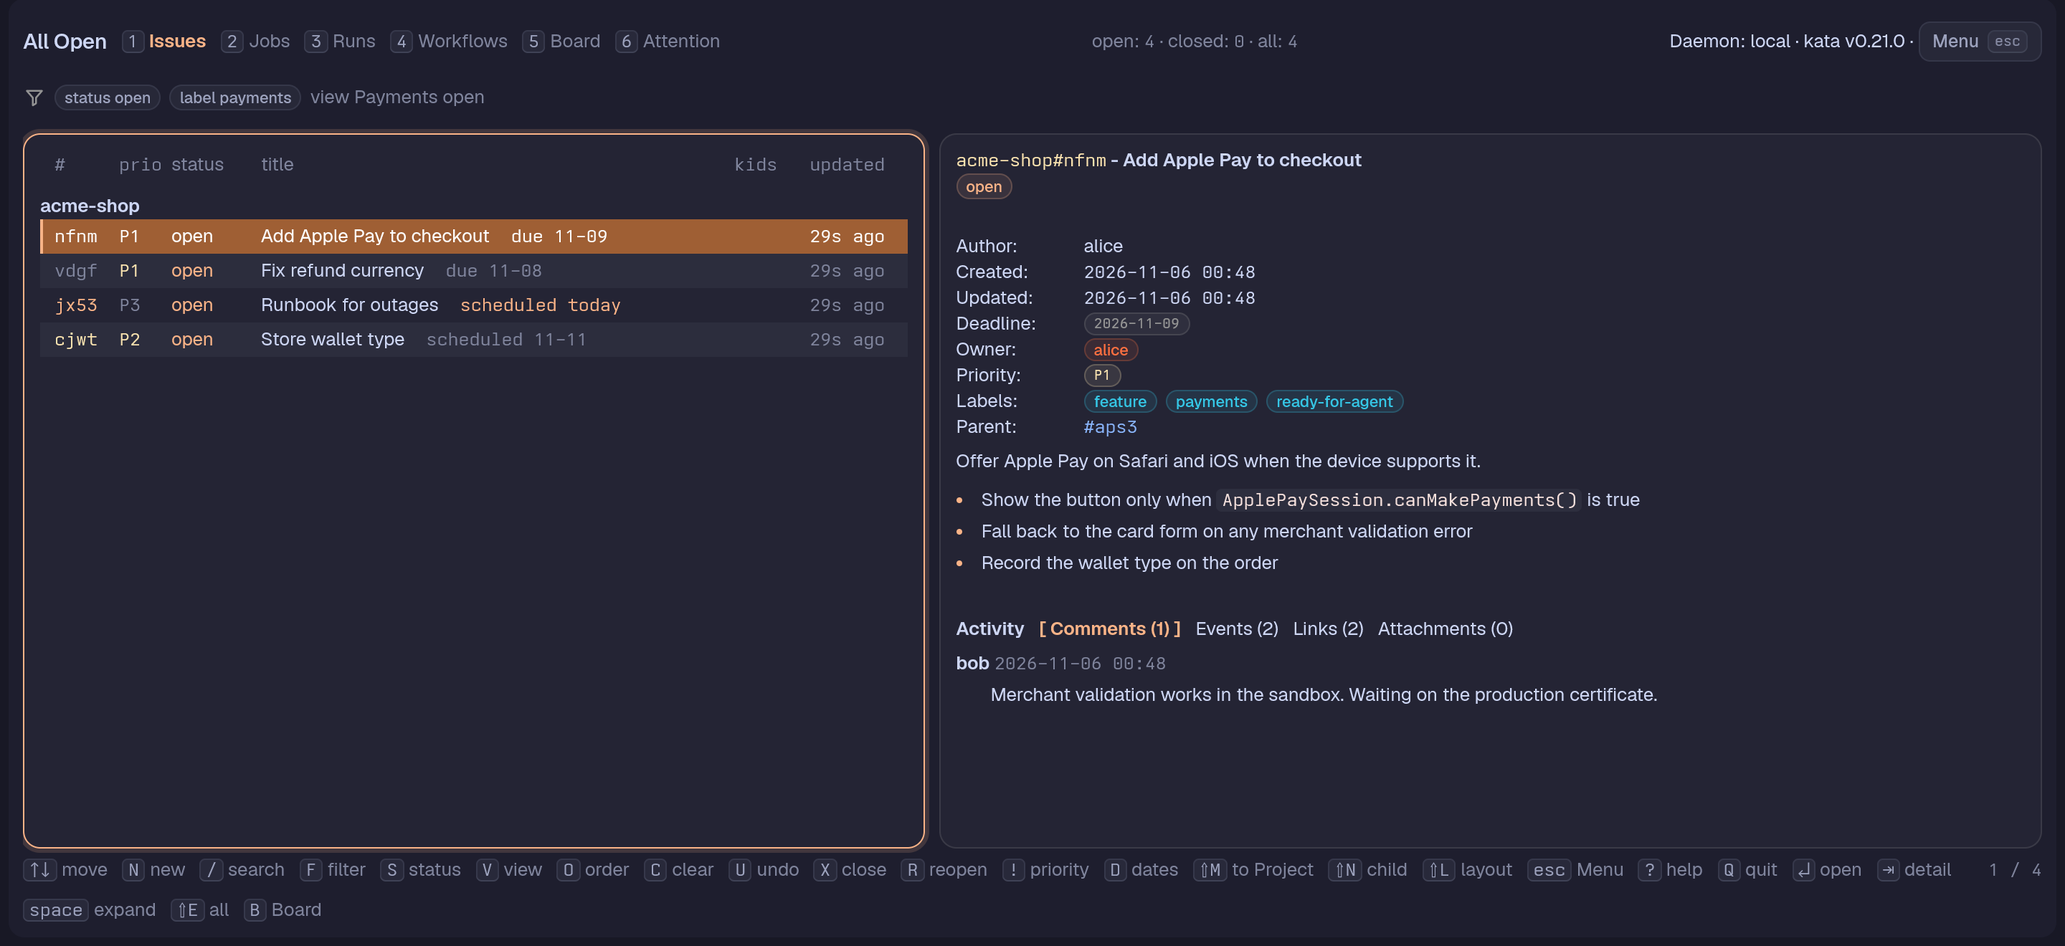
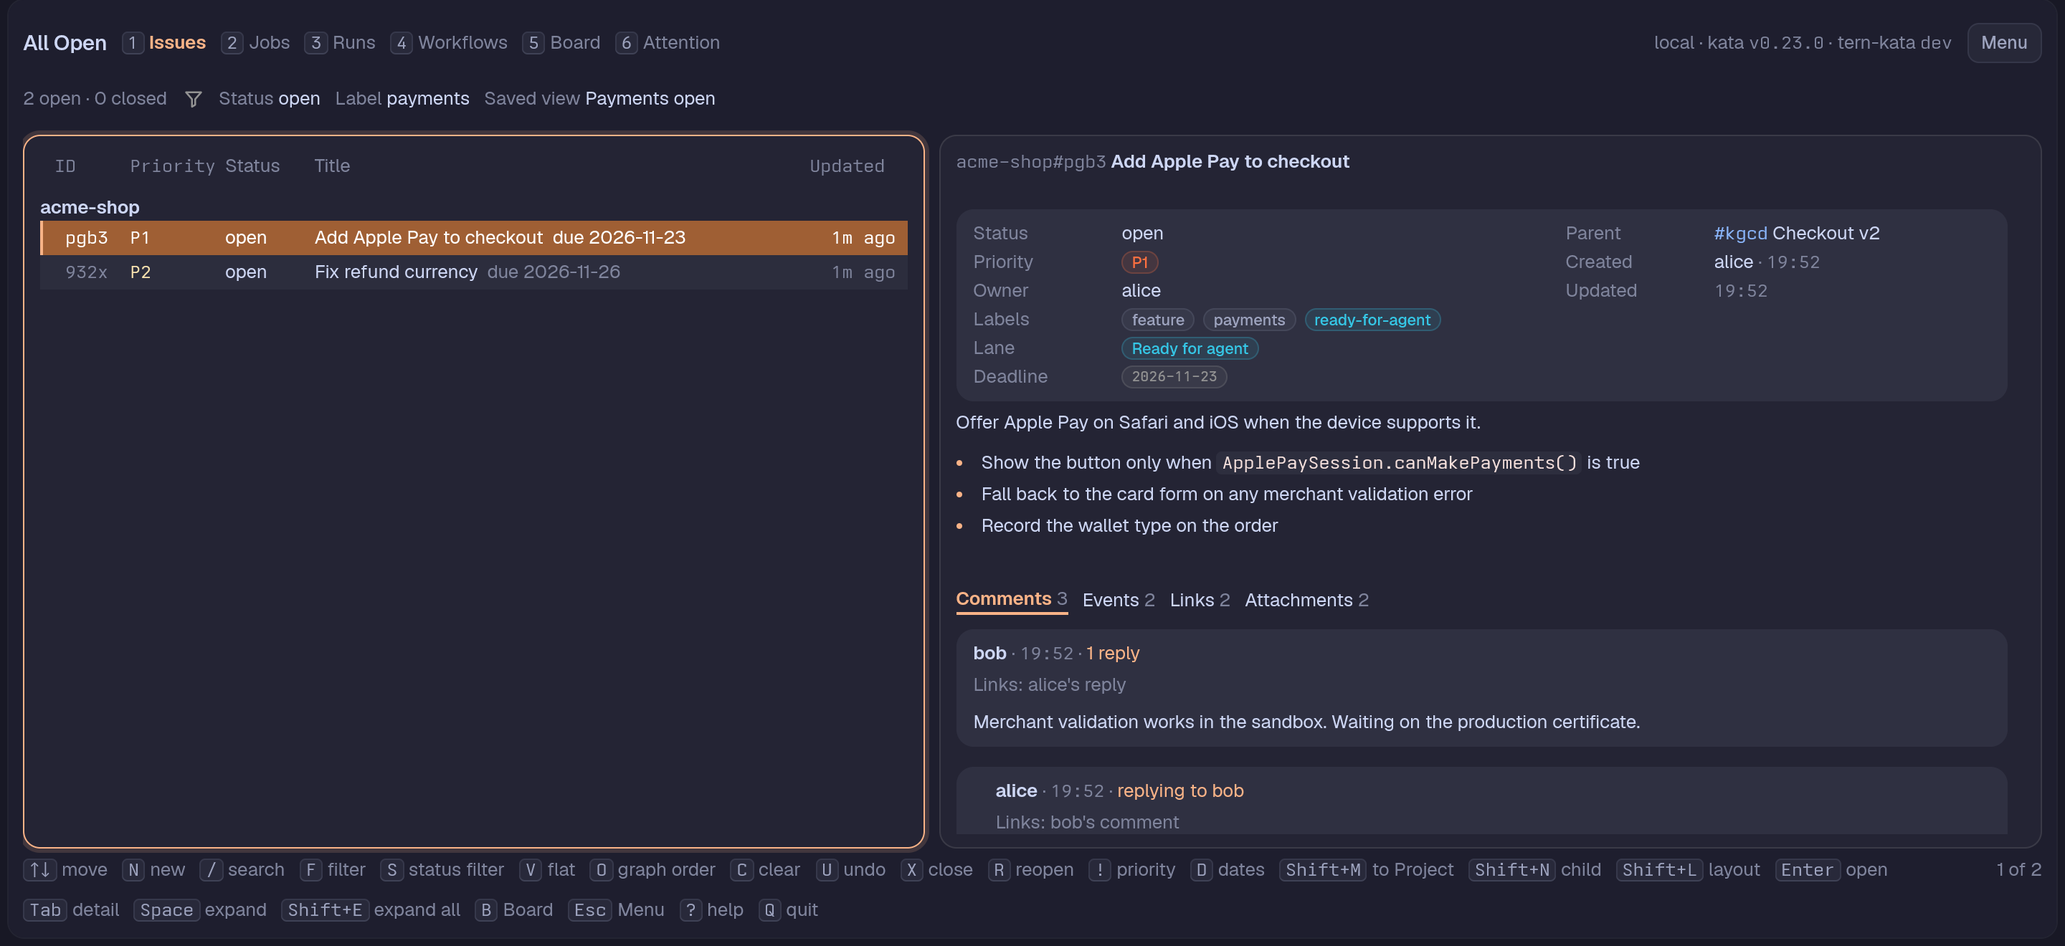
Screenshots of the redesigned Pane; question-only cards, card facts and the Lane fact fixed on the way (8fjt)
- docs/images: all 18 screenshots retaken in dark-catppuccin at their old sizes and framing (Issues and Board,
  Jobs, Runs, Workflows, Worker and Agent cards, search by meaning); alt texts updated where the picture changed.
- A card holding only a question or an error keeps it in its body, so no empty band shows under its head.
- A Board card's facts row keeps each separator with the fact after it, so a wrapped row never ends in a dot.
- The Issue detail's Lane fact is a badge in its Lane's colour.
- Docs: the Dates card hint shows focused or not; the Agent card closes with Close and names S, T, G as keys.

scripts/check.sh static, go test ./... and the full ./smoke/run.sh pass.

diff --git a/internal/view/board.go b/internal/view/board.go
@@ -285,12 +285,14 @@ func cardFacts(m model.Model, card model.BoardCard, otherDate string, now time.T
 	if len(facts) == 0 {
 		return nil
 	}
-	parts := make([]tern.Element, 0, 2*len(facts)-1)
+	// A separator travels with the fact after it, so a wrapped row never ends in a dangling dot ("carol ·").
+	parts := make([]tern.Element, len(facts))
 	for i, fact := range facts {
 		if i > 0 {
-			parts = append(parts, ui.Text{Common: ui.Common{Key: "sep" + strconv.Itoa(i)}, Spans: []ui.Span{{T: "·", S: "muted"}}})
+			sep := ui.Text{Common: ui.Common{Key: "sep"}, Spans: []ui.Span{{T: "·", S: "muted"}}}
+			fact = ui.Row{Common: ui.Common{Key: childKey(fact)}, Gap: ui.GapSM, Align: ui.AlignCenter, Children: ui.Nodes(sep, fact)}
 		}
-		parts = append(parts, fact)
+		parts[i] = fact
 	}
 	return ui.Row{Common: ui.Common{Key: "facts"}, Gap: ui.GapSM, Wrap: true, Children: parts}
 }

diff --git a/internal/view/detail.go b/internal/view/detail.go
@@ -366,7 +366,8 @@ func properties(m model.Model, issue *model.Issue, now time.Time) tern.Element {
 		left = append(left, fact("Labels", none()))
 	}
 	if lane := model.LaneOf(*issue, m.LaneList()); lane != model.LaneNone && lane != model.LaneDone {
-		left = append(left, fact("Lane", text(model.LaneTitle(lane))))
+		// the Lane in its Board colour, as its label chip above it is
+		left = append(left, fact("Lane", ui.Badge{Common: ui.Common{Key: "v", Tone: laneTone(m.LaneList(), lane)}, Text: model.LaneTitle(lane)}))
 	}
 	scheduled, deadline := model.IssueDates(*issue)
 	// Dates are facts here, not warnings: the Board and list badges carry the urgency.

diff --git a/internal/view/buttons.go b/internal/view/buttons.go
@@ -305,6 +305,11 @@ func popup(overlay ui.Overlay, children []tern.Element) ui.Overlay {
 		}
 		body = append(body, child)
 	}
+	// A card that holds nothing but such lines keeps them in its body: moved to the foot they would leave an empty band under
+	// the head.
+	if len(body) == 0 {
+		body, statuses = statuses, nil
+	}
 	if len(statuses) > 0 {
 		if !hasFoot {
 			foot = ui.Row{Common: ui.Common{Key: footKey}, Gap: ui.GapMD, Justify: ui.JustifyEnd, Wrap: true}

diff --git a/internal/driver/board_relationships_test.go b/internal/driver/board_relationships_test.go
@@ -48,7 +48,7 @@ func relationshipsText(t *testing.T, s driver.State, uid string) (string, bool) 
 			continue
 		}
 		switch first, _, _ := strings.Cut(strings.TrimPrefix(n.ID, prefix+"."), "."); {
-		case strings.HasPrefix(first, "sep"), first == "owner", first == "other-date", first == "reopen":
+		case first == "owner", first == "other-date", first == "reopen", strings.HasSuffix(n.ID, ".sep"):
 			continue
 		}
 		spans, _ := n.P["spans"].([]any)

diff --git a/docs/guide/agents.md b/docs/guide/agents.md
@@ -6,9 +6,9 @@ Three things help coding agents work with tern-kata: the Agent card, which start
 
 ### The Agent card and starting agents
 
-`W` on the selected Issue (list, Board, Lane view or Issue detail) opens the Agent card, with or without agents. It lists the Issue's agents, one row each as `working · 18:30 · split`: the state word (`working`, `waiting for you`, `idle`, `exited`, or `running` before any relay), the start time (`18:30` today, else `2026-11-18 18:30`) and where the agent is (split, tab, background or open). An unread message is a muted line after the row, `message unread: <first line>`. Under the list the selected omp agent's facts are two labelled rows: **Session** (its model, the number of tool calls so far, the tool it is running now and its cost so far) and **Last message** (the first line of its last message), each drawn only when there is something to say. The Session facts come from the end of the agent's omp session file (the last 1 MiB; on a longer session the count reads "at least" and the cost starts with `~`), read when the card opens and every 2 seconds while it stays open. For an agent that is not omp, or whose session file is not there yet, the buttons that need it are disabled and carry the reason. The buttons are in two labelled groups: **New agent** (Split, Tab, Background and **Start a team…**, or **Pause the team** or **Resume the team** once the Issue has a team) and **Selected** (Go to, Background, Message, Quick reply, Interrupt, Stop, and Forget for another host's agent), with **Cancel** on its own row at the end; **Selected** is hidden when the card lists no agent. With no agents the card reads "No agents" / "Start one with s, t or g." `Enter` goes to the selected one, `B` sends it to the background, `M` [messages](#messages-to-an-agent) it, `R` sends it a [quick reply](#quick-replies), `I` interrupts it, `X` stops it, `Esc` cancels.
+`W` on the selected Issue (list, Board, Lane view or Issue detail) opens the Agent card, with or without agents. It lists the Issue's agents, one row each as `working · 18:30 · split`: the state word (`working`, `waiting for you`, `idle`, `exited`, or `running` before any relay), the start time (`18:30` today, else `2026-11-18 18:30`) and where the agent is (split, tab, background or open). An unread message is a muted line after the row, `message unread: <first line>`. Under the list the selected omp agent's facts are two labelled rows: **Session** (its model, the number of tool calls so far, the tool it is running now and its cost so far) and **Last message** (the first line of its last message), each drawn only when there is something to say. The Session facts come from the end of the agent's omp session file (the last 1 MiB; on a longer session the count reads "at least" and the cost starts with `~`), read when the card opens and every 2 seconds while it stays open. For an agent that is not omp, or whose session file is not there yet, the buttons that need it are disabled and carry the reason. The buttons are in two labelled groups: **New agent** (Split, Tab, Background and **Start a team…**, or **Pause the team** or **Resume the team** once the Issue has a team) and **Selected** (Go to, Background, Message, Quick reply, Interrupt, Stop, and Forget for another host's agent), with **Close** on its own row at the end; **Selected** is hidden when the card lists no agent. With no agents the card reads "No agents" / "Start one with `S`, `T` or `G`." `Enter` goes to the selected one, `B` sends it to the background, `M` [messages](#messages-to-an-agent) it, `R` sends it a [quick reply](#quick-replies), `I` interrupts it, `X` stops it, `Esc` closes the card.
 
-![The Agent card for "Add Apple Pay to checkout" with no agents yet and its buttons in two groups: New agent with Split (S), Tab (T), Background (G), Start a team… (C), Pause the team (P) and Cancel; Selected with Go to, Background, Message, Quick reply, Interrupt and Stop](../images/agent-card.png)
+![The Agent card for an Issue with no agents yet: "No agents. Start one with S, T or G." and the Split, Tab, Background and Start a team buttons](../images/agent-card.png)
 
 `S` starts a new interactive `omp` in a split right of the kata Pane, `T` in a new tab right of the kata Pane's tab (in that Pane's Tern session, with the plugin's window half loaded; otherwise the tab stays where Tern opens it: last before Tern 0.9.28, right of the current tab from 0.9.28), `G` in the background. Each starts in the Issue's checkout: the Binding's workspace, else the Project's `checkout` in `agent.toml`, else the first checkout `worker.toml` lists for it, else a Notice says to add one. The Notices read "Starting an agent on #12…", then "Started an agent on #12 in a split." (or "in a new tab", "in the background") or "Cannot start an agent on #12: <reason>."; failures are drawn in the error tone.
 

diff --git a/README.md b/README.md
@@ -10,7 +10,7 @@ https://github.com/user-attachments/assets/282d75ee-ccbd-495b-bb78-6eb0565aa3b4
 
 The same example Project in tern-kata (top) and in `kata tui` (bottom), both running in Tern:
 
-![tern-kata showing the acme-shop Project with "Add Apple Pay to checkout" selected](docs/images/tern-kata.png)
+![tern-kata on the acme-shop Project: the Issues list with coloured priorities and dates, and "Add Apple Pay to checkout" open with its facts panel, Lane badge and a comment thread](docs/images/tern-kata.png)
 
 ![kata tui showing the same Project and Issue](docs/images/kata-tui.png)
 
@@ -32,21 +32,21 @@ In tern-kata, Issue bodies render as Markdown, priorities and labels show as chi
 
 **Board.** `5` or `B` shows a Project's Issues as cards in Lanes, one per triage label. `<` and `>` move a card by swapping its label in kata, and a selected card tags its related cards; following one of another Project switches the Pane to that Project and Esc comes back. See [Pages and the Board](docs/guide/pages-and-board.md).
 
-![The acme-shop Board with "Add Apple Pay to checkout" selected, its parent and blocker tagged](docs/images/board.png)
+![The acme-shop Board, each Lane in its own colour, with "Add Apple Pay to checkout" selected and its blocker, parent and related Issue named on its card](docs/images/board.png)
 
 **Jobs and the Job card.** `2` lists a Project's Cron jobs with their state, schedule in words and next run. The Job card makes and edits every kind of job. See [Jobs](docs/guide/jobs.md).
 
-![The Jobs Page with a job selected and its inspector open, listing its next runs](docs/images/jobs.png)
+![The Jobs Page with the worker's chip, the Jobs as cards and the selected Job's facts beside them, listing its next runs](docs/images/jobs.png)
 
-![The Job card editing an agent prompt job, with the schedule preview](docs/images/job-card.png)
+![The Job card editing an agent prompt job: Kind, Name, Trigger and Interval with their labels, and the schedule preview with the next three runs](docs/images/job-card.png)
 
 **Runs.** `3` lists a Project's runs newest first, with held runs, steps and output from this machine's worker. See [Runs](docs/guide/runs.md).
 
-![The Runs Page with a held run selected and its detail open](docs/images/runs.png)
+![The Runs Page with runs as cards by status and the selected run's facts beside them](docs/images/runs.png)
 
 **Workflows.** `4` lists a Project's kata workflows, their steps and the jobs that run them, and edits them in a form. See [Workflows](docs/guide/workflows.md).
 
-![The Workflows Page with a workflow selected and its steps shown](docs/images/workflows.png)
+![The Workflows Page as a split: the Workflows list, and the selected workflow's steps with their kind, dependencies and retries](docs/images/workflows.png)
 
 **Attention.** `6`, or `Shift+T` from any Page and the Menu, lists the requests kata holds for you, in every Project on the daemon, newest first: who asked, the message, and the comment a request asks you to answer. Enter opens the request's Issue, on the comment it names so `Shift+R` answers it, `C` clears it, and `M` sends a message to the omp agent that raised it, which reaches the agent at once. It reads the Inbox address `KATA_INBOX_USER`, else the actor the Pane writes as. See [Pages and the Board](docs/guide/pages-and-board.md#attention-page).
 
@@ -60,7 +60,7 @@ In tern-kata, Issue bodies render as Markdown, priorities and labels show as chi
 
 **Dates card.** `D` sets an Issue's scheduled date and deadline, typed as a date, `today`, `tomorrow`, `+3d` or `+1w`, or with a time in kata's date-time forms. See [Dates](docs/guide/dates.md).
 
-![The Dates card over the Board, with "+1w" typed in Scheduled and the weekday of the date it resolves to beside it](docs/images/dates-card.png)
+![The Dates card over the Board, with "+1w" typed in Scheduled and the date it resolves to under it](docs/images/dates-card.png)
 
 **Moving an Issue.** `Shift+M` opens the Move card on the selected Issue: pick a Project from a filtered list, preview the move (kata checks it and changes nothing), then move it, guarded on the revision the card opened with. The Issue moves with its open descendants; `O` (Only this Issue) moves it alone. A toast names the Issue in its new Project, and its Open button opens it there. See [Moving an Issue](docs/guide/pages-and-board.md#moving-an-issue).
 

diff --git a/docs/guide/pages-and-board.md b/docs/guide/pages-and-board.md
@@ -157,7 +157,7 @@ Search by meaning needs embeddings set up on the kata daemon the Pane is connect
 
 - **Turn on** (`Y`) sends one `POST /api/v1/embeddings/local` ("Turning on search by meaning…"). kata starts its setup job in the daemon and the card follows it with the words the Config row uses: a progress bar for the download, "set up · needs a kata daemon restart" when the job is done, then a progress bar for the indexing. The job runs in the daemon, so it goes on when you close the card (`Esc`) or quit the Pane. Opening the card again, from the row, picks the job up where it is; while the Config Page or the card is shown, the status is read again every 2 seconds. A failed job shows kata's error and offers `S` to try again; a refusal reads "Cannot turn on search by meaning: <reason>." (with the stream down, "Cannot turn on search by meaning: disconnected from kata.").
 
-  ![The card following kata's setup job: downloading 17 / 289 MB with a progress bar, and kata keeps going if you close this](../images/search-meaning-download.png)
+  ![The card following kata's setup job: downloading with a progress bar, and kata keeps going if you close this](../images/search-meaning-download.png)
 
 - Search stays by words until the kata daemon restarts: the job writes kata's `config.toml` and never restarts the daemon. The Pane offers the restart itself, behind its own question: when the job is done while the card is open, the card asks "Restart the kata daemon now? Other Panes, agents and the worker lose their connection for a moment and reconnect." with **Restart now** (`Y`) and **Not now** (`N`, `Esc`), because a restart briefly disconnects every client of that daemon. A card opened while a restart is owed on a local daemon (`Enter` or `R` on the row, not `Ctrl+O`, which is not offered while a restart is owed) opens on this question.
 
@@ -230,7 +230,7 @@ After the move a toast says "Moved #492x to other#f7bq."; its **Open** button op
 
 `B` in a Project Collection shows the Project's Issues as a **Board**; `B` or `1` again returns to the list with the same Issue selected. `5` also opens it.
 
-![The acme-shop Board with "Add Apple Pay to checkout" selected, its parent and blocker tagged](../images/board.png)
+![The acme-shop Board, each Lane in its own colour, with "Add Apple Pay to checkout" selected and its blocker, parent and related Issue named on its card](../images/board.png)
 
 Columns, left to right: **No lane** (open Issues with none of the Lane labels, always shown), one **Lane** per label of the Lane list, and **Done** (Issues closed today or in the 14 days before, at most 20 of them, newest closed first; the header says "Done 20 of 192" when more qualify; both numbers are per Project, see [the Lanes card](#the-lanes-card)).
 

diff --git a/docs/guide/dates.md b/docs/guide/dates.md
@@ -2,9 +2,9 @@
 
 `D` on the selected Issue (in the list, on the Board, in the Lane view and in the Issue detail) opens the **Dates card**: a Scheduled field and a Deadline field holding the Issue's current dates.
 
-![The Dates card over the Board, with "+1w" typed in Scheduled and the weekday of the date it resolves to beside it](../images/dates-card.png)
+![The Dates card over the Board, with "+1w" typed in Scheduled and the date it resolves to under it](../images/dates-card.png)
 
-The card's head reads Dates, with the Issue's ref (`#tga6`, or `project#tga6` across Projects) as a muted line; its buttons are **Save** and **Cancel**, and each field's placeholder is `YYYY-MM-DD`. While a field has focus, one muted line under it reads "Date like 2026-11-20, today, tomorrow or +3d. Blank clears it." `Tab` moves between the fields, `Enter` saves and `Esc` cancels. `Ctrl+D` in a field opens a calendar beside it (the footer shows `Ctrl+D calendar`) on the month of the field's date, else of the other date, else today: the arrow keys move by a day or a week, `Enter` or a click picks the date and `Esc` closes the calendar. Typing a date works as before. A field takes:
+The card's head reads Dates, with the Issue's ref (`#tga6`, or `project#tga6` across Projects) as a muted line; its buttons are **Save** and **Cancel**, and each field's placeholder is `YYYY-MM-DD`. Under each field, focused or not, a muted line reads "Date like 2026-11-20, today, tomorrow or +3d. Blank clears it." `Tab` moves between the fields, `Enter` saves and `Esc` cancels. `Ctrl+D` in a field opens a calendar beside it (the footer shows `Ctrl+D calendar`) on the month of the field's date, else of the other date, else today: the arrow keys move by a day or a week, `Enter` or a click picks the date and `Esc` closes the calendar. Typing a date works as before. A field takes:
 
 | Input | Meaning |
 |---|---|

diff --git a/CHANGELOG.md b/CHANGELOG.md
@@ -82,7 +82,7 @@ All notable changes to tern-kata are listed here. The format follows [Keep a Cha
 - Shell code blocks in comments, close messages and other Issue text the Pane draws offer no Run on Tern 0.9.29 and later, since agents, other people and other Projects write that text; Copy stays, as an icon.
 - Lanes, Lane labels and priorities have colours that say what they are.
   - Default Lanes by name: `needs-triage` yellow, `needs-info` orange-red, `ready-for-agent` cyan, `ready-for-human` lavender, `waiting` red, Done green and No lane muted; a Lane of your own cycles cyan, orange-red, lavender, yellow and red in order.
-  - A label that is one of the Project's Lanes is drawn in that Lane's colour in the Issue's Labels row; every other label stays a neutral chip.
+  - A label that is one of the Project's Lanes is drawn in that Lane's colour in the Issue's Labels row and on Board cards, and the Issue detail's Lane fact is a badge in the same colour; every other label stays a neutral chip.
   - Priority reads P0 red, P1 orange-red, P2 yellow, P3 cyan and P4 muted on the list, the Issue detail and the Board.
 - The Issues Page, the Board and their Popup cards follow one design: the same tones, wording, dates and keys everywhere.
   - Keys read in words, in the footer, the help sheet, buttons, the Page bar and the keys named in sentences.

diff --git a/docs/guide/jobs.md b/docs/guide/jobs.md
@@ -4,7 +4,7 @@
 
 ## Jobs Page
 
-![The Jobs Page with a job selected and its inspector open, listing its next runs](../images/jobs.png)
+![The Jobs Page with the worker's chip, the Jobs as cards and the selected Job's facts beside them, listing its next runs](../images/jobs.png)
 
 One card per job. The heading reads `Jobs 4`, with `· 2 archived hidden` added only while archived jobs are hidden. With none, the Page reads "No jobs" / "A job makes an Issue or runs an agent on a schedule." with a **New job** button. A card shows:
 
@@ -87,7 +87,7 @@ On the Jobs Page, `P` pauses a job that is running (it writes the job disabled) 
 
 ## Job card
 
-![The Job card editing an agent prompt job, with the schedule preview](../images/job-card.png)
+![The Job card editing an agent prompt job: Kind, Name, Trigger and Interval with their labels, and the schedule preview with the next three runs](../images/job-card.png)
 
 `N` on the Jobs Page opens the **Job card** for a new job; `Shift+J` on an Issue (list, Board, Lane view, Issue detail) opens it for a new Recurring Issue job with that Issue as its parent; `E` opens it on the selected job, prefilled. A refusal reads "Cannot create a job: disconnected from kata.", "Cannot create a job: this Project is archived." or "Cannot edit the job: it is archived; restore it first."
 

diff --git a/docs/guide/workflows.md b/docs/guide/workflows.md
@@ -4,7 +4,7 @@
 
 The Project is found as the [Board Page](pages-and-board.md#board-page) finds it, and the Page ends when you leave the Project Collection. From 140 columns the selected workflow's steps sit beside the list from the first frame, as the Issues Page shows its list and detail. In a narrower Pane the list is alone until Enter opens the steps in its place, and Esc closes them first. Otherwise Esc ends a search, then goes to the Menu.
 
-![The Workflows Page with a workflow selected and its steps shown](../images/workflows.png)
+![The Workflows Page as a split: the Workflows list, and the selected workflow's steps with their kind, dependencies and retries](../images/workflows.png)
 
 Each card names the jobs that run the workflow (`Used by Hourly report +1`) and shows its latest run (`succeeded · 2026-11-17 10:00`); the inspector lists its latest runs (see [Runs](runs.md#reading-and-filtering)).
 

diff --git a/docs/guide/runs.md b/docs/guide/runs.md
@@ -4,7 +4,7 @@
 
 A Run is kata's record of one execution of a Cron job or workflow, written by whoever ran it: an adapter, a worker here or another machine's. The Pane shows what kata holds, whoever the executor was.
 
-![The Runs Page with a held run selected and its detail open](../images/runs.png)
+![The Runs Page with runs as cards by status and the selected run's facts beside them](../images/runs.png)
 
 The heading reads `Runs 5`, with scope clauses `· job Nightly triage` while the list is narrowed to a job and `· older runs not shown` while `M` has more to read. With none, the Page reads "No runs" / "Runs from jobs and workflows appear here."; narrowed to a job it reads "No runs" / "This job has not run yet." with an **All runs** button. Each card has:
 
